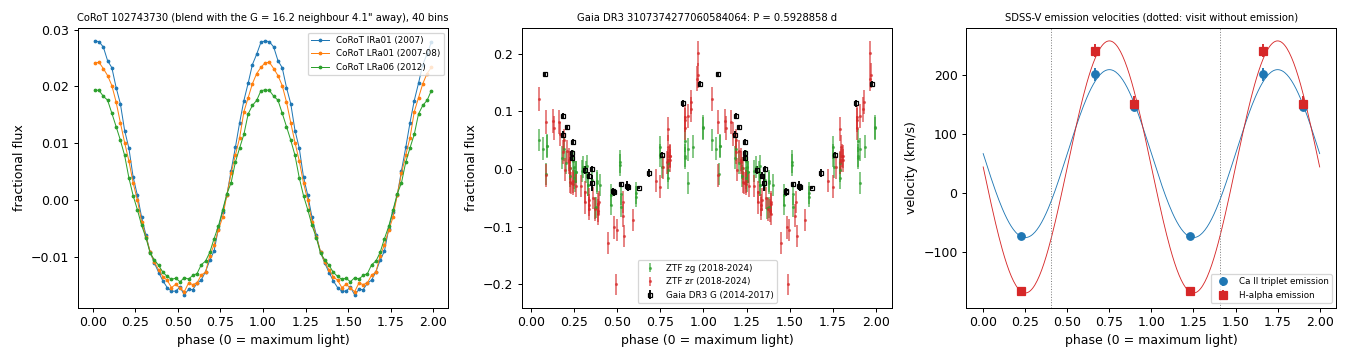
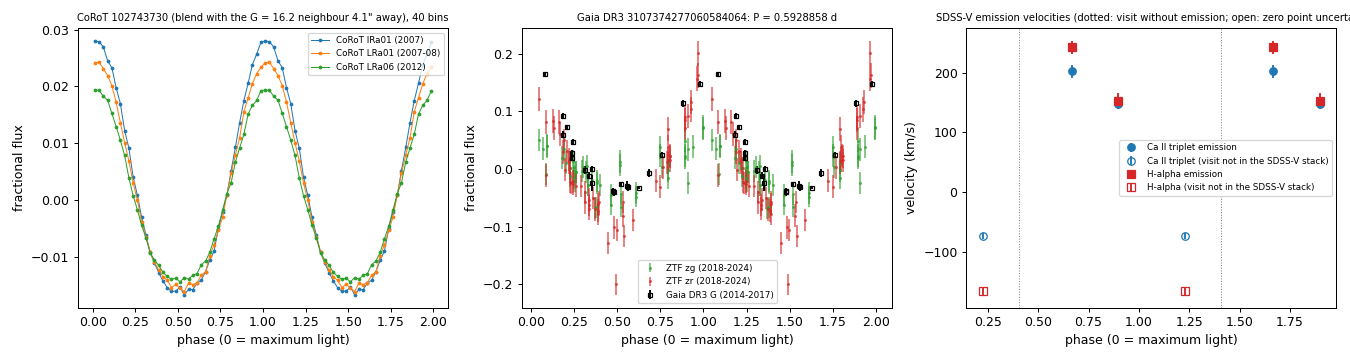
Add a velocity zero-point check for SDSS-V visits outside the stack of Gaia DR3 3107374277060584064

diff --git a/scripts/reflection_3107374277060584064.py b/scripts/reflection_3107374277060584064.py
@@ -16,7 +16,9 @@ common frequency and phase and one amplitude and offset per data set, on a grid 
 of the nearest cycle-count aliases is printed; chi2 is dominated by the CoRoT bins.
 Emission lines: per visit, Gaussian fits with a quadratic baseline to H-alpha (+-1800 km/s) and to the Ca II triplet (8500.35,
 8544.44, 8664.52 A; +-1200 km/s; common velocity and width, one amplitude per line); visit time = mean of the TAI start and end
-(no barycentric correction, < 0.01 in phase); phase 0 = maximum of the ZTF r fit.
+(no barycentric correction, < 0.01 in phase); phase 0 = maximum of the ZTF r fit. Zero-point check per visit: velocity of the He II
+4686 absorption line relative to the coadd of the in_stack visits (chi2 over +-900 km/s, linear continuum outside +-1200 km/s).
+Visits with in_stack = False are not in the SDSS-V coadd; their velocity zero point is not corrected and can be offset.
 Usage: python reflection_3107374277060584064.py (writes ../tables/reflection_3107374277060584064.csv and _visits.csv)."""
 import os, subprocess, numpy as np, pandas as pd
 from astropy.io import fits
@@ -106,12 +108,29 @@ def model(lines):
     return m
 
 
+def zero_point(vs):
+    """He II 4686 absorption velocity of each visit relative to the coadd of the in_stack visits."""
+    from sdssv import coadd
+    w, fl, iv = coadd([v for v in vs if v["in_stack"]])[:3]; S = np.arange(-500, 501, 5.0); l = 4687.02
+    def seg(w, f, iv):
+        v = (w / l - 1) * C; m = (np.abs(v) < 2500) & (iv > 0) & np.isfinite(f); v, f, iv = v[m], f[m], iv[m]; c = np.abs(v) > 1200
+        p = np.polyfit(v[c], f[c], 1, w=np.sqrt(iv[c])); cc = np.polyval(p, v); return v, f / cc, iv * cc ** 2
+    tv, tf, _ = seg(w, fl, iv); out = {}
+    for v in vs:
+        xv, xf, xi = seg(v["wave"], v["flux"], v["ivar"]); m = np.abs(xv) < 900
+        chi = np.array([np.sum((xf[m] - np.interp(xv[m] - s, tv, tf)) ** 2 * xi[m]) for s in S]); i = int(np.argmin(chi))
+        a, b, _ = np.polyfit(S[i - 1:i + 2], chi[i - 1:i + 2], 2) if 0 < i < len(S) - 1 else (np.nan, np.nan, 0)
+        out[v["mjd"]] = (-b / (2 * a), np.sqrt(max(chi[i] / (m.sum() - 1), 1) / a)) if a > 0 else (np.nan, np.nan)
+    return out
+
+
 def emission(f, t_max):
-    vs = visits(SDSS_ID); rows = []
+    vs = visits(SDSS_ID); rows = []; zp = zero_point(vs)
     with fits.open(fetch(SDSS_ID, "visit")) as h:
         tm = {int(r["mjd"]): (r["tai_beg"] + r["tai_end"]) / 2 / 86400 + 2400000.5 for i in (1, 2) if h[i].data is not None and len(h[i].data) for r in h[i].data}
     for v in vs:
-        row = dict(mjd=v["mjd"], jd_mid=round(tm[v["mjd"]], 4), phase=round(((tm[v["mjd"]] - t_max) * f) % 1, 3), snr=round(v["snr"], 1), in_stack=v["in_stack"])
+        row = dict(mjd=v["mjd"], jd_mid=round(tm[v["mjd"]], 4), phase=round(((tm[v["mjd"]] - t_max) * f) % 1, 3), snr=round(v["snr"], 1), in_stack=v["in_stack"],
+                   xcsao_v_kms=round(v["xcsao_v"], 1), heii4686_abs_v_kms=round(zp[v["mjd"]][0]), heii4686_abs_e_v_kms=round(zp[v["mjd"]][1]))
         for name, lines, win in (("halpha", [6564.61], 1800), ("caii", CAT, 1200)):
             m = np.zeros(len(v["wave"]), bool)
             for l in lines:

diff --git a/scripts/figures.py b/scripts/figures.py
@@ -390,14 +390,15 @@ def reflection():
     ax[1].set_title(f"Gaia DR3 {R.GID}: P = {1 / f:.7f} d", fontsize=8)
     xx = np.linspace(0, 2, 300)
     for name, col, mk, lab in (("caii", "C0", "o", "Ca II triplet"), ("halpha", "C3", "s", "H-alpha")):
-        s_ = v[v[f"{name}_amp_snr"] > 5]; X = np.vstack([np.ones(len(s_)), -np.sin(2 * np.pi * s_.phase)]).T; w = 1 / s_[f"{name}_e_v_kms"].values
-        q = np.linalg.lstsq(X * w[:, None], s_[f"{name}_v_kms"].values * w, rcond=None)[0]
-        ax[2].errorbar(np.r_[s_.phase, s_.phase + 1], np.r_[s_[f"{name}_v_kms"], s_[f"{name}_v_kms"]], np.r_[s_[f"{name}_e_v_kms"], s_[f"{name}_e_v_kms"]], fmt=mk, color=col, label=f"{lab} emission")
-        ax[2].plot(xx, q[0] - q[1] * np.sin(2 * np.pi * xx), color=col, lw=0.7)
+        s_ = v[v[f"{name}_amp_snr"] > 5]
+        for st, fill, lab2 in ((True, col, f"{lab} emission"), (False, "none", f"{lab} (visit not in the SDSS-V stack)")):
+            q_ = s_[s_.in_stack == st]
+            if len(q_):
+                ax[2].errorbar(np.r_[q_.phase, q_.phase + 1], np.r_[q_[f"{name}_v_kms"], q_[f"{name}_v_kms"]], np.r_[q_[f"{name}_e_v_kms"], q_[f"{name}_e_v_kms"]], fmt=mk, color=col, mfc=fill, label=lab2)
     for p_ in v[v.caii_amp_snr <= 5].phase:
         for k in (0, 1):
             ax[2].axvline(p_ + k, color="0.5", ls=":", lw=0.8)
-    ax[2].set_ylabel("velocity (km/s)"); ax[2].set_title("SDSS-V emission velocities (dotted: visit without emission)", fontsize=8)
+    ax[2].set_ylabel("velocity (km/s)"); ax[2].set_title("SDSS-V emission velocities (dotted: visit without emission; open: zero point uncertain)", fontsize=8)
     for a in ax:
         a.set_xlabel("phase (0 = maximum light)"); a.legend(fontsize=7)
     ax[0].set_ylabel("fractional flux"); ax[1].set_ylabel("fractional flux")

diff --git a/METHODS.md b/METHODS.md
@@ -59,6 +59,7 @@
   - Adopted frequency: a joint fit of the CoRoT runs (30-min bins) and ZTF g and r, with a common frequency and phase and one amplitude and offset per data set, on a 2e-7 c/d grid.
   - Per data set: the highest Lomb-Scargle peak (0.05-20 c/d) and a sinusoid plus first harmonic at the adopted frequency.
   - SDSS-V visits (XCSAO shift removed for in-stack visits): Gaussian fits with a quadratic baseline to H-alpha and to the Ca II triplet (common velocity and width). The visit time is the mean of the TAI start and end.
+  - Zero-point check: the He II 4686 absorption velocity of each visit relative to the coadd of the in-stack visits. Visits with in_stack = False are not corrected, and their velocity zero point can be offset.
 - **TESS full-frame images** (`tess_ffi_photometry.py`). TESScut 11 × 11 cutouts; 3 × 3-pixel aperture, per-cadence background from the pixels outside a 5 × 5 box, 1-day running median subtracted, 5σ clip. The amplitude at a given frequency is given as a fraction of the aperture flux, and scaled to the expected flux of the star (15,000 e/s at T = 10), which assumes the other flux in the aperture is constant.
 - **Balmer emission.** Equivalent widths are measured against sideband continua. Peak separations come from a two-Gaussian fit with equal widths.
 

diff --git a/docs/periodic.md b/docs/periodic.md
@@ -28,6 +28,10 @@ G = 17.27, parallax 1.82 ± 0.09 mas, BP−RP = −0.35. Existing classification
   - A blue continuum with He II 4686 Å absorption and weak Balmer absorption.
   - H-alpha, H-beta and Ca II triplet emission in three visits (`tables/reflection_3107374277060584064_visits.csv`). The emission velocities are +242, −166 and +152 km/s (H-alpha) and +202, −73 and +147 km/s (Ca II) at phases 0.67, 0.23 and 0.90 from maximum light.
   - No emission in the S/N 4 visit at phase 0.41.
+  - Two visits (MJD 59273 and 59324) are not in the SDSS-V stack (`in_stack = False`).
+    - Their He II 4686 absorption lies at +205 ± 22 and +176 ± 16 km/s relative to the in-stack coadd. The two in-stack visits give −1 ± 12 and +15 ± 25 km/s.
+    - The velocity zero point of those visits is therefore offset, by an amount similar to their XCSAO velocities (+73 and +137 km/s). The emission velocities of MJD 59324 are uncertain by about that amount.
+    - The in-stack visits (phases 0.67 and 0.90) are unaffected.
 
 Folded light curves and emission-line velocities (phase 0 = maximum of the ZTF r fit):
 
